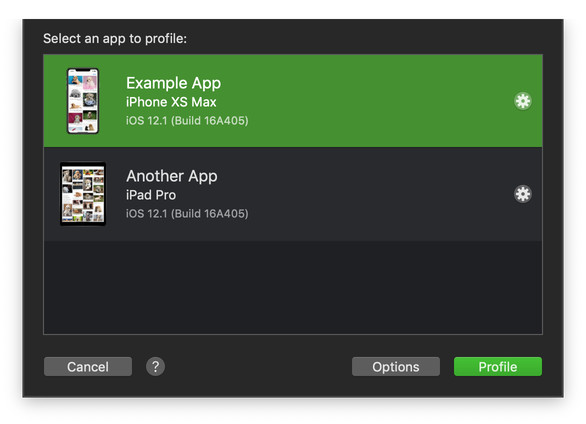
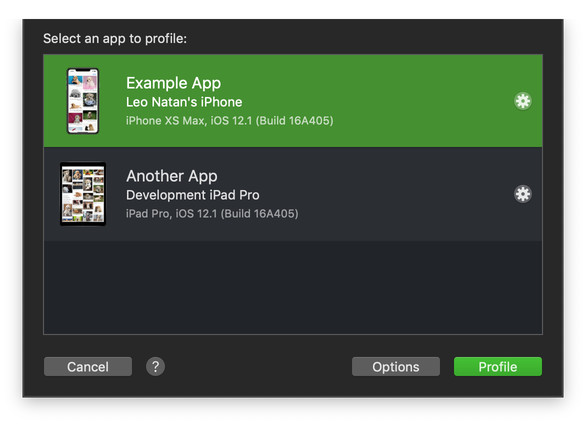
Change device info to include simulator computer as part of the device name
Add “marketing name” to device presentable info.

Changed region(s): [[0.215, 0.2146, 0.5836, 0.3066], [0.215, 0.4292, 0.5222, 0.5212]]

diff --git a/Profiler/DTXProfiler/Utilities/DTXDeviceInfo.m b/Profiler/DTXProfiler/Utilities/DTXDeviceInfo.m
@@ -23,7 +23,13 @@ static NSString* __version =
 	
 	uname(&systemInfo);
 	
-	return [NSString stringWithCString:systemInfo.machine encoding:NSUTF8StringEncoding];
+	return [NSString stringWithCString:systemInfo
+#if ! TARGET_OS_SIMULATOR
+			.machine
+#else
+			.nodename
+#endif
+							  encoding:NSUTF8StringEncoding];
 }
 
 + (NSString *)_bundleName
@@ -58,6 +64,8 @@ static NSString* __version =
 	return [NSBundle.mainBundle objectForInfoDictionaryKey:@"CFBundleIdentifier"];
 }
 
+extern id MGCopyAnswer(NSString *inKey);
+
 + (NSDictionary*)deviceInfo
 {
 	NSProcessInfo* processInfo = [NSProcessInfo processInfo];
@@ -69,41 +77,34 @@ static NSString* __version =
 #if ! TARGET_OS_SIMULATOR
 	deviceDetails[@"deviceName"] = currentDevice.name;
 #else
-	NSString* deviceTypeSim = UI_USER_INTERFACE_IDIOM() == UIUserInterfaceIdiomPad ? @"iPad" : @"iPhone";
-	
-	deviceDetails[@"deviceName"] = [NSString stringWithFormat:NSLocalizedString(@"%@ (%@ Simulator)", @""), currentDevice.name, deviceTypeSim];
+	if(processInfo.operatingSystemVersion.majorVersion < 12)
+	{
+		deviceDetails[@"deviceName"] = [NSString stringWithFormat:NSLocalizedString(@"Simulator (%@)", @""), MGCopyAnswer(@"ComputerName")];
+	}
+	else
+	{
+		deviceDetails[@"deviceName"] = [NSString stringWithFormat:NSLocalizedString(@"%@ (%@)", @""), currentDevice.name, MGCopyAnswer(@"ComputerName")];
+	}
 #endif
 	deviceDetails[@"deviceOS"] = processInfo.operatingSystemVersionString;
 	deviceDetails[@"deviceOSType"] = @0;
 	deviceDetails[@"devicePhysicalMemory"] = @(processInfo.physicalMemory);
 	deviceDetails[@"deviceProcessorCount"] = @(processInfo.activeProcessorCount);
 	deviceDetails[@"deviceType"] = currentDevice.model;
+	deviceDetails[@"deviceMarketingName"] = MGCopyAnswer(@"marketing-name");
 	deviceDetails[@"deviceResolution"] = NSStringFromCGSize(UIScreen.mainScreen.currentMode.size);
 	deviceDetails[@"processIdentifier"] = @(processInfo.processIdentifier);
 	deviceDetails[@"hasReactNative"] = @([DTXReactNativeSampler reactNativeInstalled]);
 	deviceDetails[@"profilerVersion"] = __version;
 	
 #if ! TARGET_OS_SIMULATOR
-#pragma clang diagnostic push
-#pragma clang diagnostic ignored "-Warc-performSelector-leaks"
-	SEL selector = NSSelectorFromString(@"deviceInfoForKey:");
-	
-	if (![currentDevice respondsToSelector:selector])
-	{
-		selector = NSSelectorFromString(@"_deviceInfoForKey:");
-	}
-	
-	if ([currentDevice respondsToSelector:selector])
-	{
-		deviceDetails[@"deviceColor"] = [currentDevice performSelector:selector withObject:@"DeviceColor"];
-		deviceDetails[@"deviceEnclosureColor"] = [currentDevice performSelector:selector withObject:@"DeviceEnclosureColor"];
-	}
-#pragma clang diagnostic pop
-	
+	deviceDetails[@"deviceColor"] = MGCopyAnswer(@"DeviceColor");
+	deviceDetails[@"deviceEnclosureColor"] = MGCopyAnswer(@"DeviceEnclosureColor");
 	deviceDetails[@"machineName"] = self._machineName;
 #else
 	deviceDetails[@"deviceColor"] = @"1";
 	deviceDetails[@"deviceEnclosureColor"] = @"1";
+	NSString* deviceTypeSim = UI_USER_INTERFACE_IDIOM() == UIUserInterfaceIdiomPad ? @"iPad" : @"iPhone";
 	deviceDetails[@"machineName"] = deviceTypeSim;
 #endif
 	

diff --git a/DetoxInstruments/DetoxInstruments/RemoteProfiling/DTXRecordingTargetPickerViewController.m b/DetoxInstruments/DetoxInstruments/RemoteProfiling/DTXRecordingTargetPickerViewController.m
@@ -403,27 +403,6 @@
 	[_targetManagementControllers removeAllObjects];
 }
 
-#pragma mark NSNetServiceBrowserDelegate
-
-- (void)netServiceBrowser:(NSNetServiceBrowser *)browser didFindService:(NSNetService *)service moreComing:(BOOL)moreComing
-{
-	service.delegate = self;
-	
-	DTXRemoteTarget* target = [DTXRemoteTarget new];
-	[self _addTarget:target forService:service];
-	
-	[service resolveWithTimeout:10];
-}
-
-- (void)netServiceBrowser:(NSNetServiceBrowser *)browser didRemoveService:(NSNetService *)service moreComing:(BOOL)moreComing
-{
-	DTXRemoteTarget* target = [_serviceToTargetMapping objectForKey:service];
-	if(target.state < 1)
-	{
-		[self _removeTargetForService:service];
-	}
-}
-
 #pragma mark NSOutlineViewDataSource
 
 - (NSInteger)outlineView:(NSOutlineView *)outlineView numberOfChildrenOfItem:(nullable id)item
@@ -478,12 +457,33 @@
 	_outlineController.selectButton.enabled = hasSelection && hasCompatibleVersion;
 }
 
+#pragma mark NSNetServiceBrowserDelegate
+
+- (void)netServiceBrowser:(NSNetServiceBrowser *)browser didFindService:(NSNetService *)service moreComing:(BOOL)moreComing
+{
+	service.delegate = self;
+	
+	DTXRemoteTarget* target = [DTXRemoteTarget new];
+	target.delegate = self;
+	[self _addTarget:target forService:service];
+	
+	[service resolveWithTimeout:2];
+}
+
+- (void)netServiceBrowser:(NSNetServiceBrowser *)browser didRemoveService:(NSNetService *)service moreComing:(BOOL)moreComing
+{
+	DTXRemoteTarget* target = [_serviceToTargetMapping objectForKey:service];
+	if(target.state < DTXRemoteTargetStateResolved)
+	{
+		[self _removeTargetForService:service];
+	}
+}
+
 #pragma mark NSNetServiceDelegate
 
 - (void)netServiceDidResolveAddress:(NSNetService *)sender
 {
 	DTXRemoteTarget* target = [_serviceToTargetMapping objectForKey:sender];
-	target.delegate = self;
 	
 	[target _connectWithHostName:sender.hostName port:sender.port workQueue:_workQueue];
 	

diff --git a/DetoxInstruments/DetoxInstruments/DocumentationGeneration/DTXRecordingTargetPickerViewController+DocumentationGeneration.m b/DetoxInstruments/DetoxInstruments/DocumentationGeneration/DTXRecordingTargetPickerViewController+DocumentationGeneration.m
@@ -16,7 +16,7 @@
 @property (nonatomic, assign) NSUInteger deviceOSType;
 @property (nonatomic, copy) NSString* appName;
 @property (nonatomic, copy) NSString* deviceName;
-@property (nonatomic, copy) NSString* deviceOS;
+@property (nonatomic, copy) NSString* devicePresentable;
 @property (nonatomic, copy) NSImage* screenSnapshot;
 @property (nonatomic, copy) NSDictionary* deviceInfo;
 
@@ -87,10 +87,9 @@ static __FAKE_DTXRemoteTarget* fakeTarget;
 - (void)_addFakeTarget
 {
 	fakeTarget = [__FAKE_DTXRemoteTarget new];
-	fakeTarget.deviceOS = 0;
 	fakeTarget.appName = @"Example App";
-	fakeTarget.deviceName = @"iPhone XS Max";
-	fakeTarget.deviceOS = @"Version 12.1 (Build 16A405)";
+	fakeTarget.deviceName = @"Leo Natan's iPhone";
+	fakeTarget.devicePresentable = @"iPhone XS Max, iOS 12.1 (Build 16A405)";
 	fakeTarget.deviceInfo = @{@"profilerVersion": @"1.4", @"machineName": @"iPhone11,6"};
 	fakeTarget.screenSnapshot = __DTXiPhoneXSMaxScreenshot();
 	fakeTarget.state = DTXRemoteTargetStateDeviceInfoLoaded;
@@ -100,10 +99,9 @@ static __FAKE_DTXRemoteTarget* fakeTarget;
 	[self _addTarget:(id)fakeTarget forService:(id)[NSObject new]];
 	
 	__FAKE_DTXRemoteTarget* fakeTarget = [__FAKE_DTXRemoteTarget new];
-	fakeTarget.deviceOS = 0;
 	fakeTarget.appName = @"Another App";
-	fakeTarget.deviceName = @"iPad Pro";
-	fakeTarget.deviceOS = @"Version 12.1 (Build 16A405)";
+	fakeTarget.deviceName = @"Development iPad Pro";
+	fakeTarget.devicePresentable = @"iPad Pro, iOS 12.1 (Build 16A405)";
 	fakeTarget.deviceInfo = @{@"profilerVersion": @"200.0", @"machineName": @"iPad5.3", @"deviceEnclosureColor": @2};
 	fakeTarget.screenSnapshot = __DTXiPadScreenshot();
 	fakeTarget.state = DTXRemoteTargetStateDeviceInfoLoaded;

diff --git a/DetoxInstruments/DetoxInstruments/RemoteProfiling/Model/DTXRemoteTarget.m b/DetoxInstruments/DetoxInstruments/RemoteProfiling/Model/DTXRemoteTarget.m
@@ -221,7 +221,15 @@
 {
 	self.deviceName = deviceInfo[@"deviceName"];
 	self.appName = deviceInfo[@"appName"];
-	self.deviceOS = deviceInfo[@"deviceOS"];
+	NSString* marketingName = deviceInfo[@"deviceMarketingName"];
+	if(marketingName)
+	{
+		self.devicePresentable = [NSString stringWithFormat:@"%@, iOS %@", marketingName, [deviceInfo[@"deviceOS"] stringByReplacingOccurrencesOfString:@"Version " withString:@""]];
+	}
+	else
+	{
+		self.devicePresentable = [NSString stringWithFormat:@"iOS %@", [deviceInfo[@"deviceOS"] stringByReplacingOccurrencesOfString:@"Version " withString:@""]];
+	}
 	self.deviceInfo = deviceInfo;
 	
 	_state = DTXRemoteTargetStateDeviceInfoLoaded;

diff --git a/DetoxInstruments/DetoxInstruments/RemoteProfiling/Model/DTXRemoteTarget.h b/DetoxInstruments/DetoxInstruments/RemoteProfiling/Model/DTXRemoteTarget.h
@@ -48,7 +48,7 @@ typedef NS_ENUM(NSUInteger, DTXRemoteTargetState) {
 @property (nonatomic, assign, readonly) NSUInteger deviceOSType;
 @property (nonatomic, copy, readonly) NSString* appName;
 @property (nonatomic, copy, readonly) NSString* deviceName;
-@property (nonatomic, copy, readonly) NSString* deviceOS;
+@property (nonatomic, copy, readonly) NSString* devicePresentable;
 @property (nonatomic, copy, readonly) NSImage* deviceSnapshot;
 @property (nonatomic, copy, readonly) NSDictionary* deviceInfo;
 @property (nonatomic, strong, readonly) NSImage* screenSnapshot;

diff --git a/DetoxInstruments/DetoxInstruments/RemoteProfiling/Model/DTXRemoteTarget-Private.h b/DetoxInstruments/DetoxInstruments/RemoteProfiling/Model/DTXRemoteTarget-Private.h
@@ -14,7 +14,7 @@
 @property (nonatomic, assign, readwrite) NSUInteger deviceOSType;
 @property (nonatomic, copy, readwrite) NSString* appName;
 @property (nonatomic, copy, readwrite) NSString* deviceName;
-@property (nonatomic, copy, readwrite) NSString* deviceOS;
+@property (nonatomic, copy, readwrite) NSString* devicePresentable;
 @property (nonatomic, copy, readwrite) NSImage* deviceSnapshot;
 @property (nonatomic, copy, readwrite) NSDictionary* deviceInfo;
 @property (nonatomic, strong, readwrite) NSImage* screenSnapshot;

diff --git a/DetoxInstruments/DetoxInstruments/Views/DTXRemoteTargetCellView.m b/DetoxInstruments/DetoxInstruments/Views/DTXRemoteTargetCellView.m
@@ -97,7 +97,7 @@
 		{
 			self.title1Field.stringValue = target.appName;
 			self.title2Field.stringValue = target.deviceName;
-			self.title3Field.stringValue = [NSString stringWithFormat:@"iOS %@", [target.deviceOS stringByReplacingOccurrencesOfString:@"Version " withString:@""]];
+			self.title3Field.stringValue = target.devicePresentable;
 			[self.progressIndicator stopAnimation:nil];
 			self.progressIndicator.hidden = YES;
 			

diff --git a/Profiler/DTXProfiler/RemoteProfiler/DTXRemoteProfilingConnectionManager.m b/Profiler/DTXProfiler/RemoteProfiler/DTXRemoteProfilingConnectionManager.m
@@ -285,7 +285,7 @@ DTX_CREATE_LOG(RemoteProfilingConnectionManager);
 		
 		NSData* png = UIImagePNGRepresentation(snapshotImage);
 		
-		NSMutableDictionary* cmd = [[DTXDeviceInfo deviceInfo] mutableCopy];
+		NSMutableDictionary* cmd = [NSMutableDictionary new];
 		cmd[@"cmdType"] = @(DTXRemoteProfilingCommandTypeLoadScreenSnapshot);
 		cmd[@"screenSnapshot"] = png;
 		
